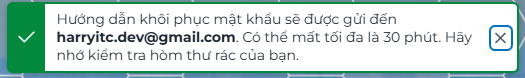
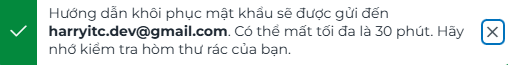
Thêm caption đánh số cho ảnh hướng dẫn quên mật khẩu và tinh chỉnh spacing
- Chuyển ảnh sang figure/figcaption với caption "Hình 1/2/3"
- Thêm ảnh Bước 8 (đổi tên image.png -> forgot-login.png)
- Ảnh nội dung mặc định có viền, bo góc
- Tinh chỉnh khoảng cách figure và caption gần ảnh hơn

diff --git a/docs/.vitepress/theme/custom.css b/docs/.vitepress/theme/custom.css
@@ -236,6 +236,30 @@
   }
 }
 
+/* ----- Hình minh hoạ kèm chú thích (caption) ----- */
+.vp-doc figure {
+  /* Gắn ảnh với bước phía trên (margin trên nhỏ), tách rộng với bước sau */
+  margin: 0.75rem 0 2rem;
+  text-align: center;
+}
+.vp-doc figure img {
+  display: block;
+  margin: 0 auto;
+  border-radius: 8px;
+}
+
+/* Mọi hình ảnh trong nội dung mặc định có viền */
+.vp-doc img {
+  border: 1px solid var(--vp-c-divider);
+  border-radius: 8px;
+}
+.vp-doc figcaption {
+  margin-top: 0.35rem;
+  font-size: 0.875rem;
+  font-style: italic;
+  color: var(--vp-c-text-2);
+}
+
 /* Logo brand HUTECH (dạng ngang) — tăng chiều cao cho dễ đọc trên navbar */
 .VPNavBarTitle .logo {
   height: 53px;